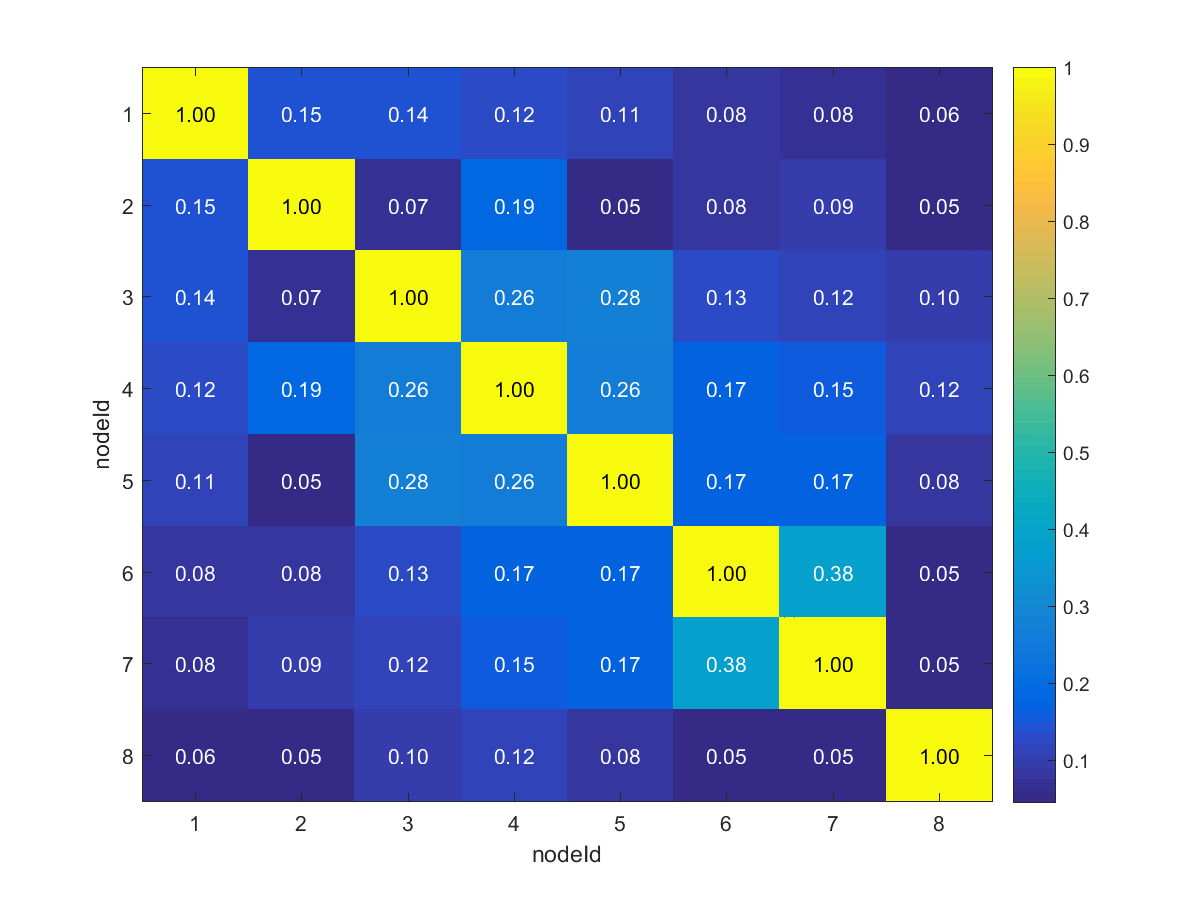
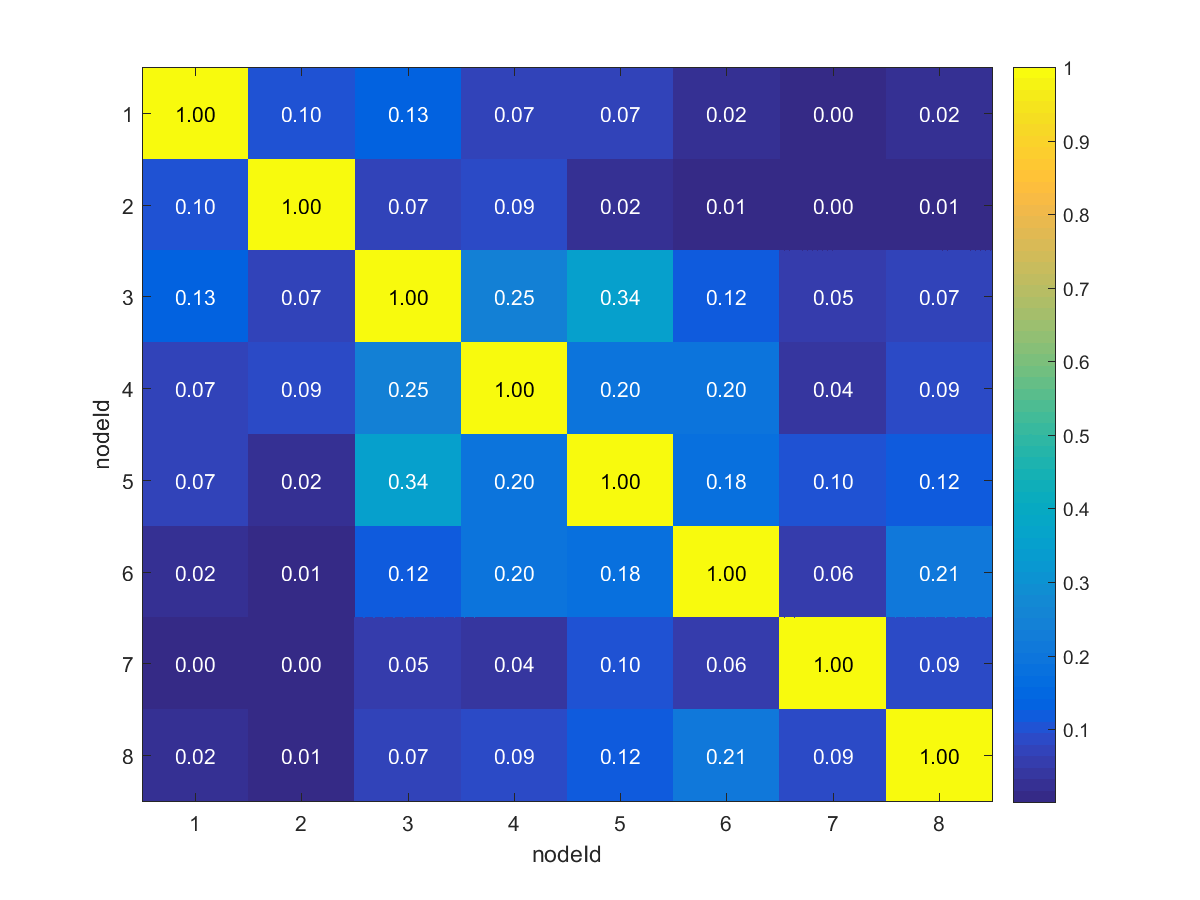
for 29th ppt

diff --git a/binary_correlation.m b/binary_correlation.m
@@ -1,12 +1,13 @@
 %calculate binary coefficients
 clear corr_matrix;
-num_mins=4;
+num_mins=6;
 window_size = num_mins*60*10;%num_mins min=num_mins*60*10ms
 overlap_size = window_size/2; %2min = 2*60*100ms
 figure1=figure;
 corr_matrix = zeros(8,8);
 graphMatrix = zeros(8,8);
 combine_data = newPirArray; 
+% combine_data = [pirA ;pirB; pirC; pirD;pirE; pirF; pirG;pirH];
 len=size(combine_data);
 count = 1;
 for i=1:8
@@ -26,9 +27,9 @@ for i=1:8
                 % in the same positions
                 q_1 = c+d; % number of 0's in 1st array
                 q_2 = b+d; % number of 0's in 2nd array      
-                value=correlation_coefficient(a,p_1,p_2);
+%                 value=correlation_coefficient(a,p_1,p_2);
 %                 value=gleas( a,p_1,p_2 );
-%                 value=jacard( a,b,c );
+                value=jacard( a,b,c );
 %                 value=bb( a,p_1,p_2 );
 %                 value=loevinger(a,b,c,d,p_1,p_2,q_1,q_2);
 %                 value=cohen(a,b,c,d,p_1,p_2,q_1,q_2);
@@ -44,13 +45,13 @@ end
 for l =1:8
     for m =1:8
         
-        graphMatrix(l,m)=corr_matrix(l,m)>0.38;
+        graphMatrix(l,m)=corr_matrix(l,m)>0.40;
     end
     
 end
-G= graph(graphMatrix);
-plot(G);
-figure;
+% G= graph(graphMatrix);
+% plot(G);
+% figure;
 h=imagesc(corr_matrix);
 xlabel('nodeId');ylabel('nodeId');
 % impixelregion(h);
@@ -66,4 +67,4 @@ textColors = repmat(corr_matrix(:) < midValue,1,3);  %# Choose white or black fo
 %#   the background color
 set(hStrings,{'Color'},num2cell(textColors,2));
 colorbar();
-% saveas(figure1,'29_02/bin_coeff_window_smc.png')
+saveas(figure1,'29_02/bin_coeff_window_bb.png')

diff --git a/emd_analysis.m b/emd_analysis.m
@@ -2,6 +2,8 @@ value=3;
 MAX_VALUE = 16728;
 clear mega_imf;
 clear diff;
+matrix = zeros(8,17);
+freq=[8,8,8,8,8,9,9,8];
 megaNode=[node1(value,1:MAX_VALUE);node2(value,1:MAX_VALUE);node3(value,1:MAX_VALUE);node4(value,1:MAX_VALUE);node5(value,1:MAX_VALUE);node6(value,1:MAX_VALUE);node7(value,1:MAX_VALUE);node8(value,1:MAX_VALUE)];
 for j = 1:8
     clear ZCR;
@@ -16,14 +18,14 @@ for j = 1:8
         ZCR(i)=mean(abs(diff(sign(imf(i,:)))));
         
         ZCT(i)=1/ZCR(i);
-        
-%         if(ZCR(i)==0)
-        if(ZCT(i)>358 && ZCT(i)<2000)
-            index(count)=i;
+        matrix(j,i)= ZCT(i);
+        if(ZCR(i)==0)
+%         if(ZCT(i)>640 && ZCT(i)<3000)
+            index(count)=freq(j);
             count = count+1;
         end
     end
-    j
+   
     sum_imf=0;
     len_index=size(index);
     for i = 1:len_index(2)

diff --git a/test_sample.m b/test_sample.m
@@ -1,5 +1,6 @@
 
 clear sample;
+figure1 = figure;
 maxTime(1)=max(time_1);
 maxTime(2)=max(time_2);
 maxTime(3)=max(time_3);
@@ -341,5 +342,11 @@ while(time<MAXLIMIT && index<limit)
     end
    
 end
+% x=[sample_pir(2,:);sample_pir(4,:);sample_pir(6,:);sample_pir(8,:);sample_pir(10,:);sample_pir(12,:);sample_pir(14,:);sample_pir(16,:)];
+% y = [1,8];
 newPirArray=[sample_pir(1,:);sample_pir(3,:);sample_pir(5,:);sample_pir(7,:);sample_pir(9,:);sample_pir(11,:);sample_pir(13,:);sample_pir(15,:)];
 imagesc(newPirArray);
+xlabel('time(x0.1s)');
+ylabel('nodeId');
+colorbar();
+% saveas(figure1,'29_02/pir_output.png')

diff --git a/corr.m b/corr.m
@@ -10,10 +10,10 @@ a=mega_imf;
 for j = 1:8
     for i = 1:8
         
-        [c,lags] = xcorr(a(j,:),a(i,:),0,'coeff');
-%         c=corrcoef(a(j,:),a(i,:));
-%         corrValues(j,i) = abs(c(1,2));
-        corrValues(j,i) = max(c);
+%         [c,lags] = xcorr(a(j,:),a(i,:),0,'coeff');
+        c=corrcoef(a(j,:),a(i,:));
+        corrValues(j,i) = abs(c(1,2));
+%         corrValues(j,i) = max(c);
 %         graphMatrix(j,i) = (corrValues(j,i) > 0.30);
        
         

diff --git a/normal_binary_correlation.m b/normal_binary_correlation.m
@@ -51,4 +51,4 @@ textColors = repmat(corr_matrix(:) < midValue,1,3);  %# Choose white or black fo
 %#   the background color
 set(hStrings,{'Color'},num2cell(textColors,2));
 colorbar();
-saveas(figure1,'29_02/bin_coeff_normal_smc.png')
+saveas(figure1,'29_02/bin_coeff_normal_cc.png')

diff --git a/time_analysis.m b/time_analysis.m
@@ -8,7 +8,7 @@ UINT8_MAX_NUM = 256;
 % listing=dir(nameOfDir);
 % matFile = strcat(nameOfDir,'\',listing(3).name);
 % load(matFile);
-load('time_sync.mat');
+load('26_02_1.mat');
 recPAckets=ones(1,8);
 length = size(dataArray);
 % min([dataArrat()])

diff --git a/time_analysis_Short.m b/time_analysis_Short.m
@@ -3,7 +3,7 @@ tick = 0.001;
 MAC_ID =2;
 PACKET_COUNT = 6;
 UINT8_MAX_NUM = 256;
-load('26_02.mat');
+load('26_02_1.mat');
 recPAckets=ones(1,8);
 length = size(dataArray);
 count=ones(1,8);
